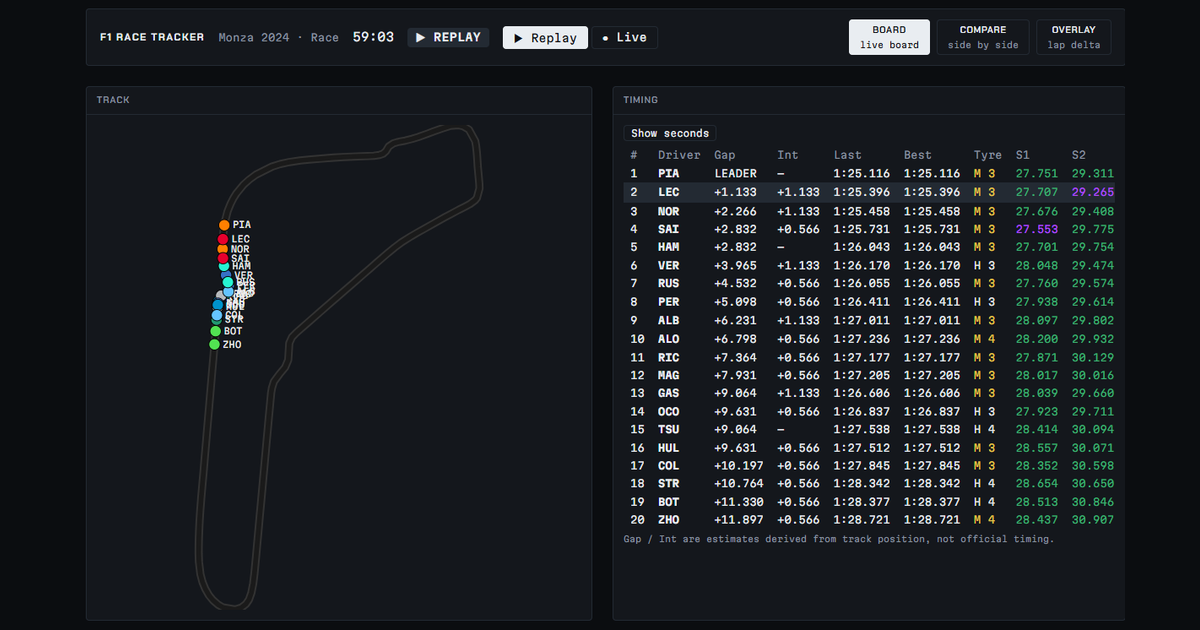
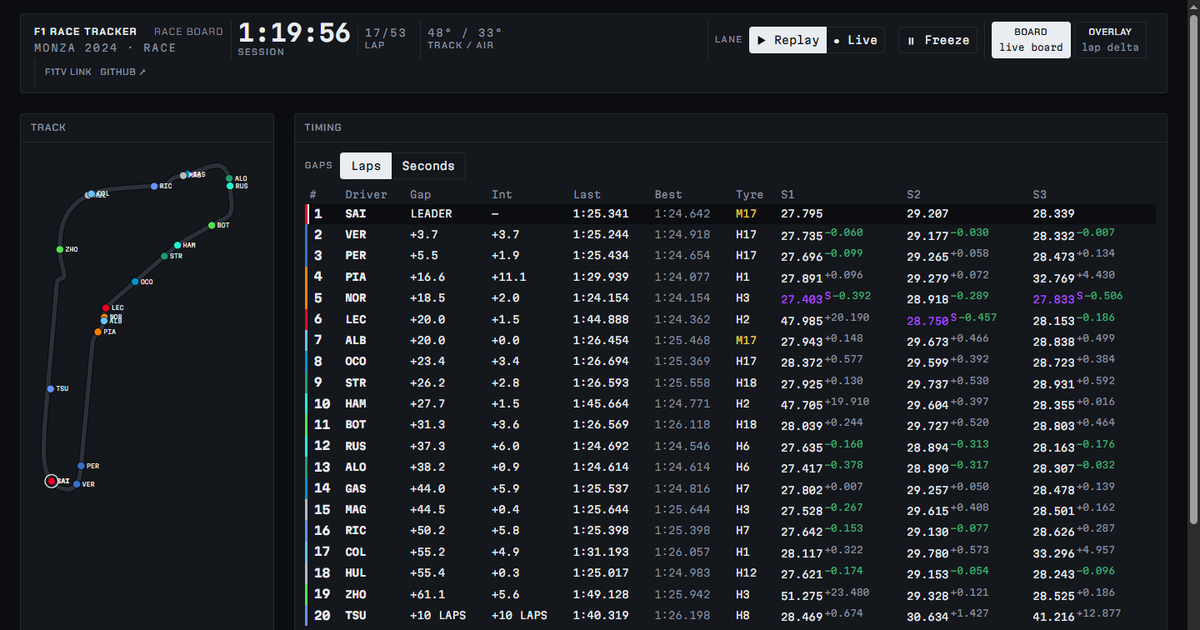
docs(readme): reshoot the hero and add the overlay screenshot after the UI sweep (#86)
The hero predated the instrument-cluster rail, team-colour tower rules and
fitted map; the overlay section lost its image when compare.png was retired
with the COMPARE view. New board.png (Monza 2024 replay) and overlay.png
(VER vs LEC, same race); og.png re-cut from the new hero; the ghost bullet
now describes both overlay scenarios; the gap note cites the validated
~30 ms median instead of 'best-effort'.

diff --git a/README.md b/README.md
@@ -2,7 +2,7 @@
 
 # F1 Race Tracker
 
-![Live lane — Silverstone 2024 on the track map](docs/assets/live-lane.png)
+![Pit-wall board — Monza 2024 replay: track map, timing tower, telemetry, strategy, comms and race control](docs/assets/board.png)
 
 An F1 race tracker that puts you on the pit wall — watch the cars on circuit, read the gaps, tyres, sector times and team radio like a race engineer, and dig into where a car is losing time. Built as a polyglot stack: Python ingests position data, Redis is the seam, a Go gateway fans it out over WebSocket, and a React SPA renders an interactive track map updating at 10 Hz. The design is track-map-first: car positions on circuit are the primary view.
 
@@ -17,7 +17,7 @@ An F1 race tracker that puts you on the pit wall — watch the cars on circuit, 
 - **Weather** — track/air temperature and a rain badge in the status rail, baked from the session's real weather samples.
 - **Team-radio comms layer** — a toggleable layer that auto-plays driver↔engineer radio in sync with the replay clock, with a now-playing banner and a short replayable history. The audio streams straight from F1's public URLs at play time — nothing is committed or downloaded — so the comms audio (only) needs network access; positions and timing stay fully offline from the committed clips. See [docs/adr/0003-team-radio-streamed-not-committed.md](docs/adr/0003-team-radio-streamed-not-committed.md).
 - **Race control feed** — a timestamped, rolling log of real session messages (flags, safety car, investigations), baked from the session's actual race-control feed and replayed in sync alongside the timing tower.
-- **Ghost overlay** — a cross-year lap comparison: this year's reference lap solid, last year's translucent, with a red/green delta bar showing exactly where a lap is won or lost round the circuit.
+- **Lap-delta overlay** — two reference laps replayed against each other on one map, side A solid and side B a translucent ghost, with a red/green delta bar showing exactly where a lap is won or lost round the circuit. Each side is a *(session, driver)* pick, so it covers both the same driver across two seasons and two drivers in the same race.
 
 The product is judged first by whether it helps you understand how the car is performing. The engineering underneath — real-time, byte-identical across two languages — is what makes that possible at scale:
 
@@ -41,6 +41,8 @@ Open [http://localhost:8080](http://localhost:8080).
 The default view shows the Monza 2024 race clip (replay lane) — a mid-race window around laps 13–17 chosen to include real pit stops, so tyre stints, pit-lane status, and the strategy chart actually have something to show. Use the toggle at the top of the page to switch to the Silverstone 2024 clip on the "Live (demo)" lane — see [What's not done](#whats-not-done) for what "demo" means there. That clip's window (laps 25–28) sits in a real rain phase: expect the weather badge to show `RAIN` and cars to change from slicks to intermediates mid-clip.
 
 ### Lap-delta overlay
+
+![Lap-delta overlay — VER solid vs LEC ghost, Monza 2024, each driver's fastest lap](docs/assets/overlay.png)
 
 Open <http://localhost:8080/#ghost> for **OVERLAY** — one track map replaying two reference laps against each other, side A solid and side B a translucent ghost, under a per-corner delta bar. Each side is picked independently as a *(session, driver)* pair, so the same view does both comparisons:
 
@@ -89,7 +91,7 @@ takes three separate opt-ins to reach. See
 
 The "Live (demo)" toggle is honestly labelled: it streams a second committed replay clip (Silverstone 2024) through Python to exercise the polyglot seam, not a real live-timing connection. True live ingestion (`ingest/live_signalr.py`) parses `TimingData`/`TimingAppData` for lap, gap/interval, and tyre fields alongside position. The connect-time snapshot shape was verified for real on 2026-08-20, but the *incremental* message shapes — the ones that only arrive during a running session — are all still marked `UNVERIFIED:` in the source. See [docs/runbooks/live-verification.md](docs/runbooks/live-verification.md) for the checklist to run through and close them out field-by-field the next time a live session is available.
 
-Gap/Int in the timing tower remain best-effort estimates derived from track position, not official per-tick timing data (the tower says so). There's no per-rival two-car map overlay, and the stint chart shows the full baked plan rather than only what's happened so far in the replay window (noted in its own footnote).
+Gap/Int in the timing tower are estimates derived from track position and the leader's own pace, not official per-tick timing data (the tower says so) — validated against official line-crossing times to a median error of ~30 ms, shown to a tenth (see [ingest/README.md](ingest/README.md)). There's no per-rival two-car map overlay, and the stint chart shows the full baked plan rather than only what's happened so far in the replay window (noted in its own footnote).
 
 ## Architecture — two lanes, one seam
 
